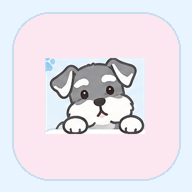
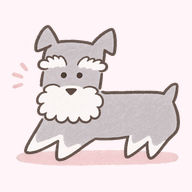
Add files via upload
Update Schnau Money to v4.1.2 - new Schnauzer icons

diff --git a/index.html b/index.html
@@ -1,14 +1,14 @@
-<!doctype html><html lang="ja"><head><meta charset="utf-8"><meta name="viewport" content="width=device-width,initial-scale=1,viewport-fit=cover"><meta name="theme-color" content="#173f43"><link rel="manifest" href="manifest.webmanifest"><title>わたしの家計簿</title><style>
+<!doctype html><html lang="ja"><head><meta charset="utf-8"><meta name="viewport" content="width=device-width,initial-scale=1,viewport-fit=cover"><meta name="theme-color" content="#173f43"><link rel="manifest" href="manifest.webmanifest"><title>Schnau Money｜わたしの家計簿</title><style>
 :root{font-family:-apple-system,BlinkMacSystemFont,'Hiragino Kaku Gothic ProN',sans-serif;color:#203336;background:#f5f8f7}*{box-sizing:border-box}body{margin:0}header{background:#173f43;color:white;padding:18px 18px 14px}header h1{font-size:21px;margin:0 0 12px}.month{display:flex;justify-content:space-between;align-items:center}.month button{background:#ffffff24;color:white;border:0;border-radius:10px;padding:9px 16px;font-size:17px}main{max-width:750px;margin:auto;padding:15px 15px 90px}.summary{display:grid;grid-template-columns:1fr 1fr;gap:10px}.tile,.panel{background:white;border-radius:15px;padding:15px;box-shadow:0 2px 9px #1232}.tile small{color:#607778}.tile strong{display:block;font-size:23px;margin-top:8px}.panel{margin-top:13px}.panel h2{font-size:16px;margin:0 0 12px}.actions{display:flex;gap:8px;margin-top:13px}button{cursor:pointer;font:inherit}.primary{background:#176b65;color:white;border:0;border-radius:11px;padding:12px 16px;font-weight:700}.secondary{background:#e8f1ef;color:#195b57;border:0;border-radius:11px;padding:11px}.actions button{flex:1}.line{display:flex;align-items:center;justify-content:space-between;padding:11px 0;border-bottom:1px solid #edf1f0;gap:8px}.line:last-child{border:0}.muted{font-size:12px;color:#748585}.positive{color:#147b62}.negative{color:#ba4e4e}.bar{height:9px;background:#eaf0ef;border-radius:8px;overflow:hidden;margin:6px 0}.bar>div{height:100%;background:#4d9990}nav{position:fixed;bottom:0;left:0;right:0;background:white;display:flex;justify-content:center;border-top:1px solid #e0e9e7;padding-bottom:env(safe-area-inset-bottom);z-index:3}nav button{flex:1;max-width:145px;border:0;background:none;color:#617776;padding:13px 3px;font-size:12px}nav button.active{color:#126a62;font-weight:800;border-top:3px solid #126a62}label{display:block;font-size:13px;font-weight:700;margin:13px 0 5px}input,select,textarea{width:100%;border:1px solid #ccdcd8;border-radius:10px;padding:12px;font-size:16px;background:white;color:#203336}textarea{min-height:65px}.formgrid{display:grid;grid-template-columns:1fr 1fr;gap:10px}.formgrid label{margin-top:10px}.hide{display:none!important}.pill{background:#e7f0ed;padding:4px 9px;border-radius:9px;font-size:12px}.danger{background:#fff0ef;color:#a63838}.empty{text-align:center;color:#83928f;padding:20px}.foot{font-size:12px;color:#667b77;line-height:1.6}.calendar{display:grid;grid-template-columns:repeat(7,1fr);gap:3px}.day{border:1px solid #e5eeeb;background:white;border-radius:7px;min-height:57px;padding:5px 2px;text-align:center;font-size:12px}.day b{display:block}.day small{font-size:9px;color:#b14f4f}.day.selected{outline:2px solid #16786c} .week{text-align:center;color:#718582;font-size:11px;padding:8px 0} .right{text-align:right} .flex{display:flex;gap:8px;align-items:center;flex-wrap:wrap} .flex>*{flex:1}  .calc-display{background:#eef6f3;border:1px solid #c6ddd5;border-radius:12px;padding:15px;text-align:right;font-size:30px;font-weight:750;min-height:64px}.calc-grid{display:grid;grid-template-columns:repeat(4,1fr);gap:8px;margin-top:9px}.calc-grid button{border:0;border-radius:12px;background:#e7efed;min-height:53px;font-size:22px;font-weight:650;color:#203336}.calc-grid button.operator{background:#cce5df;color:#135e56}.calc-grid button.equal{background:#176b65;color:white}.calc-grid button.clear{background:#f7e2df;color:#a63838} 
 /* v4 シュナウザー・パステル */
 :root{color:#38445a;background:#f2f8ff}body{background:linear-gradient(#e9f5ff,#fff7f8 68%,#f4f9ff);min-height:100vh}header{background:linear-gradient(115deg,#dff0ff,#ffe7f0);color:#264e78;border-bottom:2px solid #fff;padding-bottom:16px}header h1{color:#275480;text-shadow:0 1px white}header h1:before{content:'🐾 ';font-size:17px}header .month button{background:#fff;color:#275480;border:1px solid #c9e1f5}main{max-width:750px}.tile,.panel{border:1px solid #d8e8f4;box-shadow:0 3px 12px #5c7a9b1a;border-radius:19px}.tile strong{font-size:22px}.primary{background:#fa6f9e;color:white}.secondary{background:#e8f1ff;color:#37618c}.positive{color:#32966c}.negative{color:#ed6593}.bar{background:#f8eaf0}.bar>div{background:#f47fa6}.pill{background:#ffebf3}nav{box-shadow:0 -3px 15px #6685a21a}nav button.active{color:#e9578d;border-top-color:#f47fa6}input,select,textarea{border-color:#cfdfef}.calc-display{background:#fff4f9;border-color:#f2c9dc}.calc-grid button{background:#eaf4ff}.calc-grid button.operator{background:#fce1eb;color:#a94873}.calc-grid button.equal{background:#f47fa6}.day.selected{outline-color:#f47fa6}.mascot{display:flex;align-items:center;gap:12px;background:#ffffffa8;border:1px solid #c9e1f5;border-radius:18px;padding:8px 14px;margin-bottom:12px}.mascot img{width:76px;height:76px;object-fit:contain}.mascot p{margin:0;font-size:13px;color:#527194}.card-title{color:#365f88}.receipt-box{border:2px dashed #e6b9d3;border-radius:17px;padding:16px;background:#fff9fc;text-align:center}.receipt-box input{margin-top:10px}.receipt-box .secondary{margin:8px 0}.receipt-status{font-size:13px;color:#516a83;line-height:1.7;white-space:pre-wrap}.receipt-fields{display:grid;grid-template-columns:1fr;gap:6px}.hint{font-size:12px;color:#647b90;line-height:1.6}.receipt-candidates{display:flex;gap:8px;flex-wrap:wrap;margin:8px 0}.receipt-candidates button{background:#fff;border:1px solid #e7b9d0;border-radius:12px;padding:9px 12px;color:#8d3d66;font-weight:700}.receipt-candidates button:focus{outline:2px solid #fa6f9e}.card-total{border:1px solid #f4d7e3;border-radius:12px;padding:10px;margin:8px 0;background:#fff9fc}
-</style></head><body>
-<header><h1>わたしの家計簿</h1><div class="month"><button onclick="shiftMonth(-1)">‹</button><b id="monthLabel"></b><button onclick="shiftMonth(1)">›</button></div></header><main>
-<section id="home"><div class="mascot"><img src="mascot.png" alt="シュナウザー"><div><b>わたしの家計簿 🐾</b><p>今日も楽しく、こつこつ記録♪</p></div></div><div class="summary"><div class="tile"><small>今月の収入</small><strong class="positive" id="incomeTotal">¥0</strong></div><div class="tile"><small>今月の支出</small><strong class="negative" id="expenseTotal">¥0</strong></div></div><div class="actions"><button class="primary" onclick="showForm('expense')">＋ 支出を入力</button><button class="secondary" onclick="showForm('income')">＋ 収入を入力</button></div><div class="panel"><h2>今月の収支</h2><strong id="netTotal">¥0</strong></div><div class="actions"><button class="primary" onclick="tab('receipt')">📷 レシートを読み取る</button></div><div class="panel"><h2>カレンダー</h2><div id="calendar"></div></div><div class="panel"><h2>明細 <span class="muted" id="filterInfo"></span></h2><div id="transactions"></div></div></section>
+.brand-version{font-size:11px;font-weight:700;letter-spacing:.04em;color:#597a9c;margin:-7px 0 12px}.mascot img{width:120px;height:100px;object-fit:contain}.stats-mascot{display:flex;align-items:center;gap:12px;background:#fff8fc;border:1px solid #f3d9e5;border-radius:18px;padding:10px 12px;margin-bottom:13px}.stats-mascot img{width:130px;max-width:44%;height:100px;object-fit:contain}.stats-mascot p{font-size:13px;color:#527194;margin:0}@media(max-width:380px){.mascot img{width:100px}.stats-mascot img{width:110px}}</style></head><body>
+<header><h1>わたしの家計簿</h1><div class="brand-version">Schnau Money · Version 4.1.2</div><div class="month"><button onclick="shiftMonth(-1)">‹</button><b id="monthLabel"></b><button onclick="shiftMonth(1)">›</button></div></header><main>
+<section id="home"><div class="mascot"><img src="schnau-play.png" alt="シュナウザー"><div><b>わたしの家計簿 🐾</b><p>今日も楽しく、こつこつ記録♪</p></div></div><div class="summary"><div class="tile"><small>今月の収入</small><strong class="positive" id="incomeTotal">¥0</strong></div><div class="tile"><small>今月の支出</small><strong class="negative" id="expenseTotal">¥0</strong></div></div><div class="actions"><button class="primary" onclick="showForm('expense')">＋ 支出を入力</button><button class="secondary" onclick="showForm('income')">＋ 収入を入力</button></div><div class="panel"><h2>今月の収支</h2><strong id="netTotal">¥0</strong></div><div class="actions"><button class="primary" onclick="tab('receipt')">📷 レシートを読み取る</button></div><div class="panel"><h2>カレンダー</h2><div id="calendar"></div></div><div class="panel"><h2>明細 <span class="muted" id="filterInfo"></span></h2><div id="transactions"></div></div></section>
 <section id="entry" class="hide"><div class="panel"><h2 id="formTitle">収支入力</h2><form id="entryForm"><input type="hidden" id="editId"><label>種類</label><select id="kind" onchange="updateForm()"><option value="expense">支出</option><option value="income">収入</option><option value="transfer">振替（残高移動）</option></select><label>日付</label><input type="date" id="date" required><label>金額（円）</label><input type="hidden" id="amount"><div id="calcDisplay" class="calc-display" aria-live="polite">0</div><div class="calc-grid" aria-label="金額の電卓"><button type="button" onclick="calcKey('7')">7</button><button type="button" onclick="calcKey('8')">8</button><button type="button" onclick="calcKey('9')">9</button><button type="button" class="operator" onclick="calcKey('÷')">÷</button><button type="button" onclick="calcKey('4')">4</button><button type="button" onclick="calcKey('5')">5</button><button type="button" onclick="calcKey('6')">6</button><button type="button" class="operator" onclick="calcKey('×')">×</button><button type="button" onclick="calcKey('1')">1</button><button type="button" onclick="calcKey('2')">2</button><button type="button" onclick="calcKey('3')">3</button><button type="button" class="operator" onclick="calcKey('−')">−</button><button type="button" class="clear" onclick="calcKey('C')">C</button><button type="button" onclick="calcKey('0')">0</button><button type="button" onclick="calcKey('⌫')">⌫</button><button type="button" class="operator" onclick="calcKey('+')">＋</button><button type="button" class="equal" style="grid-column:span 4" onclick="calcKey('=')">＝ 計算結果を確定</button></div><div id="categoryWrap"><label>用途</label><select id="category"></select></div><div id="fromWrap"><label id="fromLabel">支払方法</label><select id="from"></select></div><div id="toWrap" class="hide"><label>振替先</label><select id="to"></select></div><label>内容・メモ</label><input id="memo" maxlength="200" placeholder="例：スーパー"><div class="actions"><button class="primary" type="submit">保存する</button><button class="secondary" type="button" onclick="tab('home')">キャンセル</button></div></form></div></section>
-<section id="stats" class="hide"><div class="panel"><h2>💳 カードごとの月間利用額</h2><div id="cardStats"></div><p class="hint">支出として登録した金額をカード別に集計します。請求日や未払い残高は計算しません。</p></div><div class="panel"><h2>用途別支出</h2><div id="categoriesStats"></div></div><div class="panel"><h2>支払方法別支出</h2><div id="paymentStats"></div></div></section>
+<section id="stats" class="hide"><div class="stats-mascot"><img src="schnau-count.png" alt="お金を数えるシュナウザー"><p><b>シュナウと家計チェック♪</b><br>今月のお金を数えてみよう！</p></div><div class="panel"><h2>💳 カードごとの月間利用額</h2><div id="cardStats"></div><p class="hint">支出として登録した金額をカード別に集計します。請求日や未払い残高は計算しません。</p></div><div class="panel"><h2>用途別支出</h2><div id="categoriesStats"></div></div><div class="panel"><h2>支払方法別支出</h2><div id="paymentStats"></div></div></section>
 <section id="assets" class="hide"><div class="panel"><h2>資産・電子マネー残高の目安</h2><p class="foot">現金・銀行・電子マネーの残高は初期残高と収支・振替から計算した概算です。カードの未払い額は管理しません。</p><div id="balances"></div></div><div class="panel"><h2>口座・支払方法を追加</h2><label>名前</label><input id="accountName" placeholder="例：楽天カード"><label>種類</label><select id="accountType"><option value="cash">現金</option><option value="bank">銀行</option><option value="ewallet">電子マネー</option><option value="card">クレジットカード</option></select><label>初期残高（カードは集計のみ）</label><input type="number" id="accountOpening" value="0"><button class="primary" style="margin-top:12px" onclick="addAccount()">追加する</button></div></section>
-<section id="receipt" class="hide"><div class="panel"><h2>📷 レシート読み取り</h2><div class="mascot"><img src="mascot.png" alt="シュナウザー"><p>レシートの写真から日付・店舗名・合計金額を読み取るよ！</p></div><div class="receipt-box"><b>レシートを撮影・写真を選択</b><input id="receiptFile" type="file" accept="image/*" capture="environment" onchange="scanReceipt(event)"><p class="hint">写真は外部へ送信しません。初回は文字認識プログラムのダウンロードに通信が必要です。</p></div><p class="receipt-status" id="receiptStatus">読み取り後、必ず結果を確認してください。</p><div class="receipt-fields"><label>日付（修正できます）</label><input type="date" id="receiptDate"><label>店舗名（修正できます）</label><input id="receiptStore" maxlength="200" placeholder="店舗名"><label>合計金額（修正できます）</label><input type="number" id="receiptAmount" min="1" step="1" placeholder="例：3580"></div><div id="receiptCandidates" class="receipt-candidates" aria-label="読み取った金額の候補"></div><div class="actions"><button class="primary" onclick="receiptToEntry()">確認して入力画面へ</button><button class="secondary" onclick="tab('home')">戻る</button></div><p class="hint">用途と支払方法は次の画面で選択します。撮影せずに通常の手入力もできます。</p></div></section><section id="settings" class="hide"><div class="panel"><h2>用途の追加・名称変更</h2><div id="categorySettings"></div><div class="flex"><input id="newCategory" placeholder="新しい用途"><button class="secondary" onclick="addCategory()">追加</button></div></div><div class="panel"><h2>支払方法・カードを追加</h2><p class="foot">実際のカード名はここで登録します。GitHubのプログラムには保存しません。</p><label>名前</label><input id="settingsAccountName" placeholder="例：楽天カード"><label>種類</label><select id="settingsAccountType"><option value="card">クレジットカード</option><option value="bank">銀行</option><option value="ewallet">電子マネー・QR決済</option><option value="cash">現金</option></select><button type="button" class="primary" style="margin-top:12px" onclick="addAccountFromSettings()">支払方法を追加</button></div><div class="panel"><h2>支払方法・カードの名称変更</h2><div id="accountSettings"></div></div><div class="panel"><h2>バックアップ・手動同期</h2><p class='foot'><b>重要：</b>端末間のデータは自動統合されません。読み込み前に必ず今の端末からもバックアップを書き出してください。個人情報を含むバックアップファイルは他人に送らないでください。</p><p class="foot">「書き出す」でJSONファイルを保存し、AirDropなどで別端末に移してください。「読み込む」は現在の全データを置き換えます。両端末で同時に編集した内容は自動統合されません。</p><div class="actions"><button class="primary" onclick="exportData()">書き出す</button><button class="secondary" onclick="document.getElementById('importFile').click()">読み込む</button></div><input type="file" id="importFile" accept=".json,application/json" class="hide" onchange="importData(event)"><p class="foot">この試作品は端末のブラウザ内に保存します。ブラウザデータを消去すると失われる可能性があるため、定期的に書き出してください。</p></div></section>
+<section id="receipt" class="hide"><div class="panel"><h2>📷 レシート読み取り</h2><div class="mascot"><img src="schnau-count.png" alt="シュナウザー"><p>レシートの写真から日付・店舗名・合計金額を読み取るよ！</p></div><div class="receipt-box"><b>レシートを撮影・写真を選択</b><input id="receiptFile" type="file" accept="image/*" capture="environment" onchange="scanReceipt(event)"><p class="hint">写真は外部へ送信しません。初回は文字認識プログラムのダウンロードに通信が必要です。</p></div><p class="receipt-status" id="receiptStatus">読み取り後、必ず結果を確認してください。</p><div class="receipt-fields"><label>日付（修正できます）</label><input type="date" id="receiptDate"><label>店舗名（修正できます）</label><input id="receiptStore" maxlength="200" placeholder="店舗名"><label>合計金額（修正できます）</label><input type="number" id="receiptAmount" min="1" step="1" placeholder="例：3580"></div><div id="receiptCandidates" class="receipt-candidates" aria-label="読み取った金額の候補"></div><div class="actions"><button class="primary" onclick="receiptToEntry()">確認して入力画面へ</button><button class="secondary" onclick="tab('home')">戻る</button></div><p class="hint">用途と支払方法は次の画面で選択します。撮影せずに通常の手入力もできます。</p></div></section><section id="settings" class="hide"><div class="panel"><h2>用途の追加・名称変更</h2><div id="categorySettings"></div><div class="flex"><input id="newCategory" placeholder="新しい用途"><button class="secondary" onclick="addCategory()">追加</button></div></div><div class="panel"><h2>支払方法・カードを追加</h2><p class="foot">実際のカード名はここで登録します。GitHubのプログラムには保存しません。</p><label>名前</label><input id="settingsAccountName" placeholder="例：楽天カード"><label>種類</label><select id="settingsAccountType"><option value="card">クレジットカード</option><option value="bank">銀行</option><option value="ewallet">電子マネー・QR決済</option><option value="cash">現金</option></select><button type="button" class="primary" style="margin-top:12px" onclick="addAccountFromSettings()">支払方法を追加</button></div><div class="panel"><h2>支払方法・カードの名称変更</h2><div id="accountSettings"></div></div><div class="panel"><h2>バックアップ・手動同期</h2><p class='foot'><b>重要：</b>端末間のデータは自動統合されません。読み込み前に必ず今の端末からもバックアップを書き出してください。個人情報を含むバックアップファイルは他人に送らないでください。</p><p class="foot">「書き出す」でJSONファイルを保存し、AirDropなどで別端末に移してください。「読み込む」は現在の全データを置き換えます。両端末で同時に編集した内容は自動統合されません。</p><div class="actions"><button class="primary" onclick="exportData()">書き出す</button><button class="secondary" onclick="document.getElementById('importFile').click()">読み込む</button></div><input type="file" id="importFile" accept=".json,application/json" class="hide" onchange="importData(event)"><p class="foot">この試作品は端末のブラウザ内に保存します。ブラウザデータを消去すると失われる可能性があるため、定期的に書き出してください。</p></div></section>
 </main><nav><button data-tab="home" class="active" onclick="tab('home')">🐾<br>ホーム</button><button data-tab="stats" onclick="tab('stats')">📊<br>集計</button><button data-tab="assets" onclick="tab('assets')">🏦<br>資産</button><button data-tab="settings" onclick="tab('settings')">⚙<br>設定</button></nav>
 <script>
 const KEY='my-kakeibo-v1';const id=()=>crypto.randomUUID?crypto.randomUUID():String(Date.now()+Math.random());const initial=()=>({accounts:[{id:id(),name:'現金',type:'cash',opening:0},{id:id(),name:'銀行',type:'bank',opening:0},{id:id(),name:'PayPay',type:'ewallet',opening:0},{id:id(),name:'Suica',type:'ewallet',opening:0},{id:id(),name:'クレジットカード',type:'card',opening:0}],categories:['食費','日用品','交通費','住居費','光熱費','通信費','医療費','衣服','娯楽','給与','その他'],entries:[]});let db;try{db=JSON.parse(localStorage.getItem(KEY))||initial()}catch{db=initial()}let current=new Date(),selectedDay=null;const $=x=>document.getElementById(x),yen=n=>'¥'+Math.round(n).toLocaleString('ja-JP'),save=()=>{try{localStorage.setItem(KEY,JSON.stringify(db));render()}catch(e){alert('保存できませんでした。ブラウザの保存領域を確認してください。データを書き出して保護してください。');throw e}},accountName=k=>db.accounts.find(a=>a.id===k)?.name||'削除済み',monthEntries=()=>db.entries.filter(e=>e.date.slice(0,7)===`${current.getFullYear()}-${String(current.getMonth()+1).padStart(2,'0')}`),sum=(arr,k)=>arr.filter(e=>e.kind===k).reduce((s,e)=>s+Number(e.amount),0);function shiftMonth(n){current=new Date(current.getFullYear(),current.getMonth()+n,1);selectedDay=null;render()}function tab(name){['home','entry','receipt','stats','assets','settings'].forEach(x=>$(x).classList.toggle('hide',x!==name));document.querySelectorAll('nav button').forEach(b=>b.classList.toggle('active',b.dataset.tab===name));render();window.scrollTo(0,0)}function showForm(kind='expense',entry=null){$('entryForm').reset();$('editId').value=entry?.id||'';$('kind').value=entry?.kind||kind;$('date').value=entry?.date||new Date().toLocaleDateString('sv-SE');setCalcAmount(entry?.amount||0);$('memo').value=entry?.memo||'';updateForm();if(entry){$('category').value=entry.category||db.categories[0];$('from').value=entry.from;$('to').value=entry.to||''}tab('entry')}

diff --git a/sw.js b/sw.js
@@ -1,1 +1,1 @@
-const CACHE='kakeibo-static-v4-1';const FILES=['./','./index.html','./manifest.webmanifest','./icon-192.png','./icon-512.png','./mascot.png'];self.addEventListener('install',e=>e.waitUntil(caches.open(CACHE).then(c=>c.addAll(FILES)).then(()=>self.skipWaiting())));self.addEventListener('activate',e=>e.waitUntil(Promise.all([self.clients.claim(),caches.keys().then(keys=>Promise.all(keys.filter(k=>k.startsWith('kakeibo-static-')&&k!==CACHE).map(k=>caches.delete(k))))])));self.addEventListener('fetch',e=>{if(e.request.method==='GET'&&new URL(e.request.url).origin===self.location.origin)e.respondWith(fetch(e.request).then(r=>{const copy=r.clone();caches.open(CACHE).then(c=>c.put(e.request,copy));return r}).catch(()=>caches.match(e.request)))});
+const CACHE='kakeibo-static-v4-1-2';const FILES=['./','./index.html','./manifest.webmanifest','./icon-192.png','./icon-512.png','./mascot.png','./schnau-play.png','./schnau-count.png'];self.addEventListener('install',e=>e.waitUntil(caches.open(CACHE).then(c=>c.addAll(FILES)).then(()=>self.skipWaiting())));self.addEventListener('activate',e=>e.waitUntil(Promise.all([self.clients.claim(),caches.keys().then(keys=>Promise.all(keys.filter(k=>k.startsWith('kakeibo-static-')&&k!==CACHE).map(k=>caches.delete(k))))])));self.addEventListener('fetch',e=>{if(e.request.method==='GET'&&new URL(e.request.url).origin===self.location.origin)e.respondWith(fetch(e.request).then(r=>{const copy=r.clone();caches.open(CACHE).then(c=>c.put(e.request,copy));return r}).catch(()=>caches.match(e.request)))});
